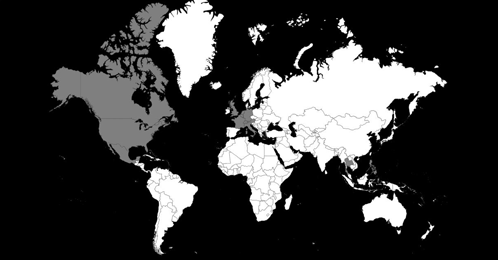
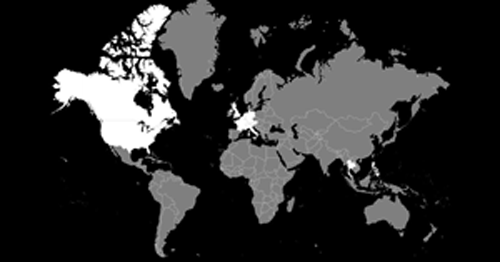
Map Invert

diff --git a/travel.html b/travel.html
@@ -52,7 +52,7 @@
 
 		<h3>VISITED</h3>
 			<h4 class="top">NORTH AMERICA</h4>
-	      		<p class="info">USA. Canada. Mexico.</p>
+	      		<p class="info">USA. Canada.</p>
 
 			<h4>EUROPE</h4>
 	      		<p class="info">England.<br>
